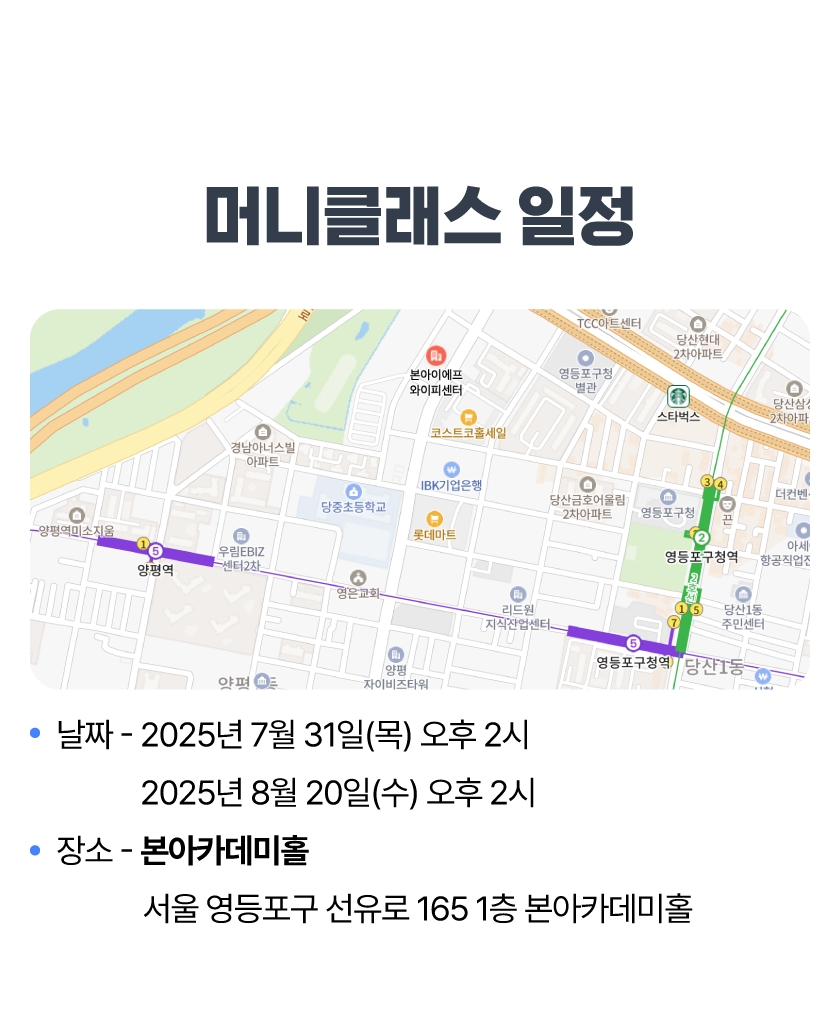
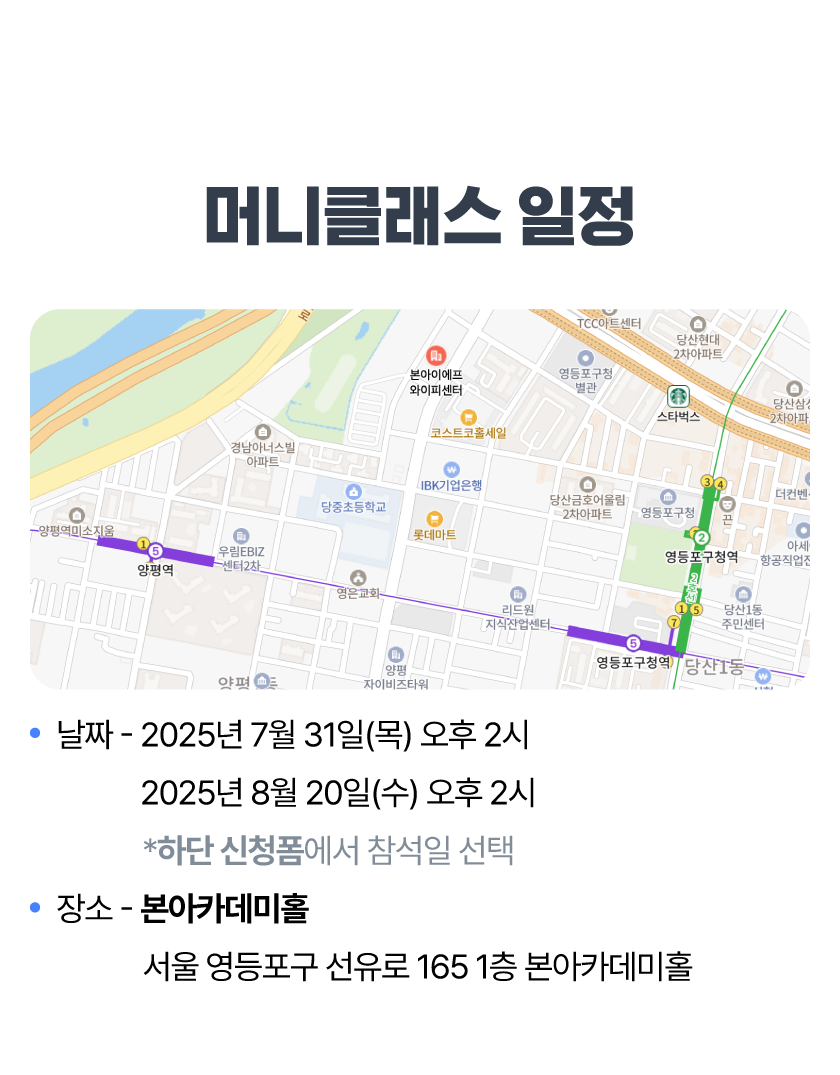
.

Changed region(s): [[0.031, 0.2807, 0.9905, 0.9357], [0.2476, 0.1559, 0.7738, 0.2495]]

diff --git a/template/money_class/money.html b/template/money_class/money.html
@@ -130,9 +130,15 @@
                 /> -->
 
                 <!-- 08.20 -->
-                <img
+                <!-- <img
                   class="com_img sa sa-up"
                   src="https://winawork.github.io/images/money_250727_01.png"
+                /> -->
+
+                <!-- 07.31, 08.20 둘 다 -->
+                <img
+                  class="com_img sa sa-up"
+                  src="https://winawork.github.io/images/money_250727_02.png"
                 />
 
                 <img
